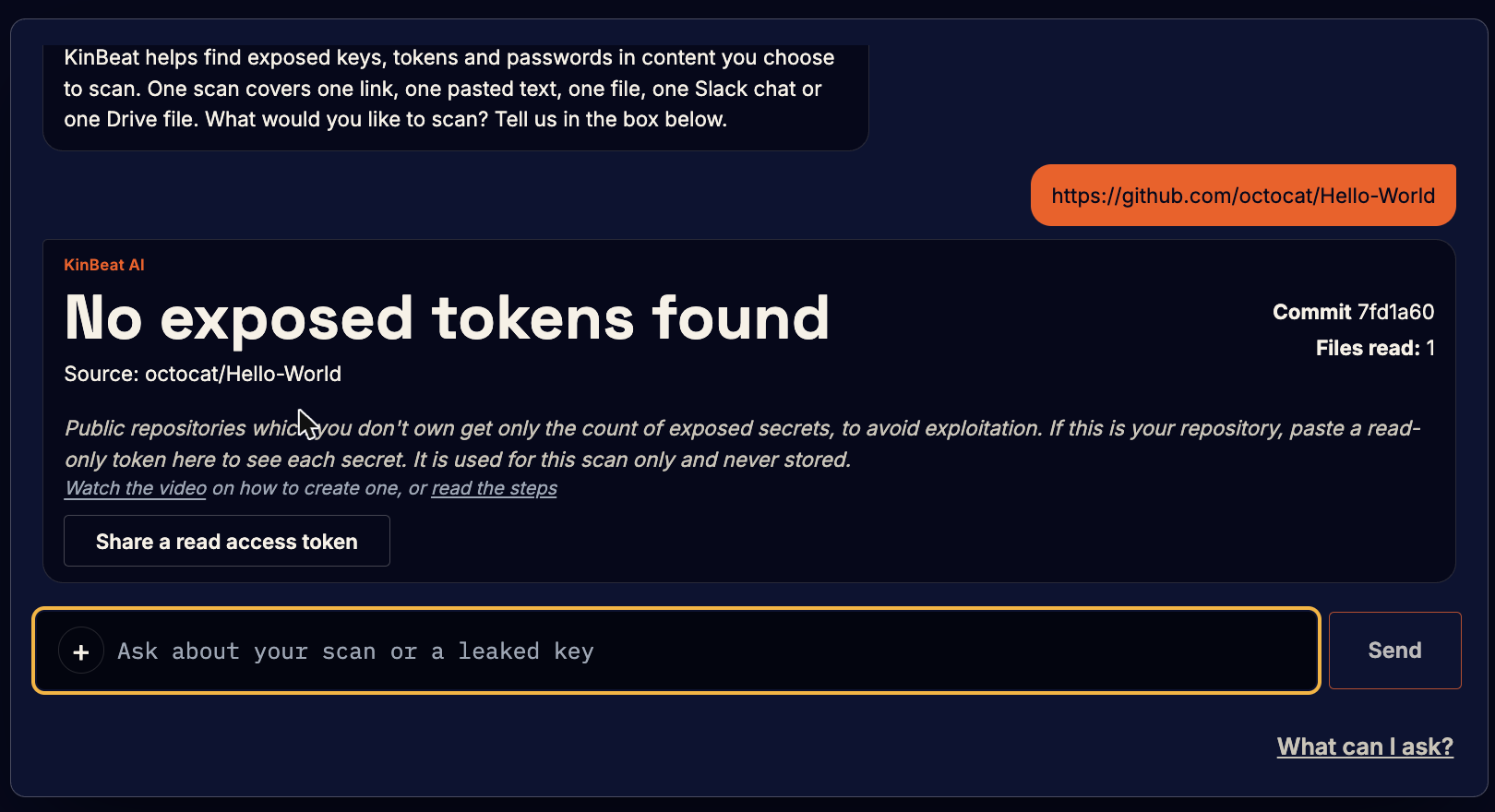
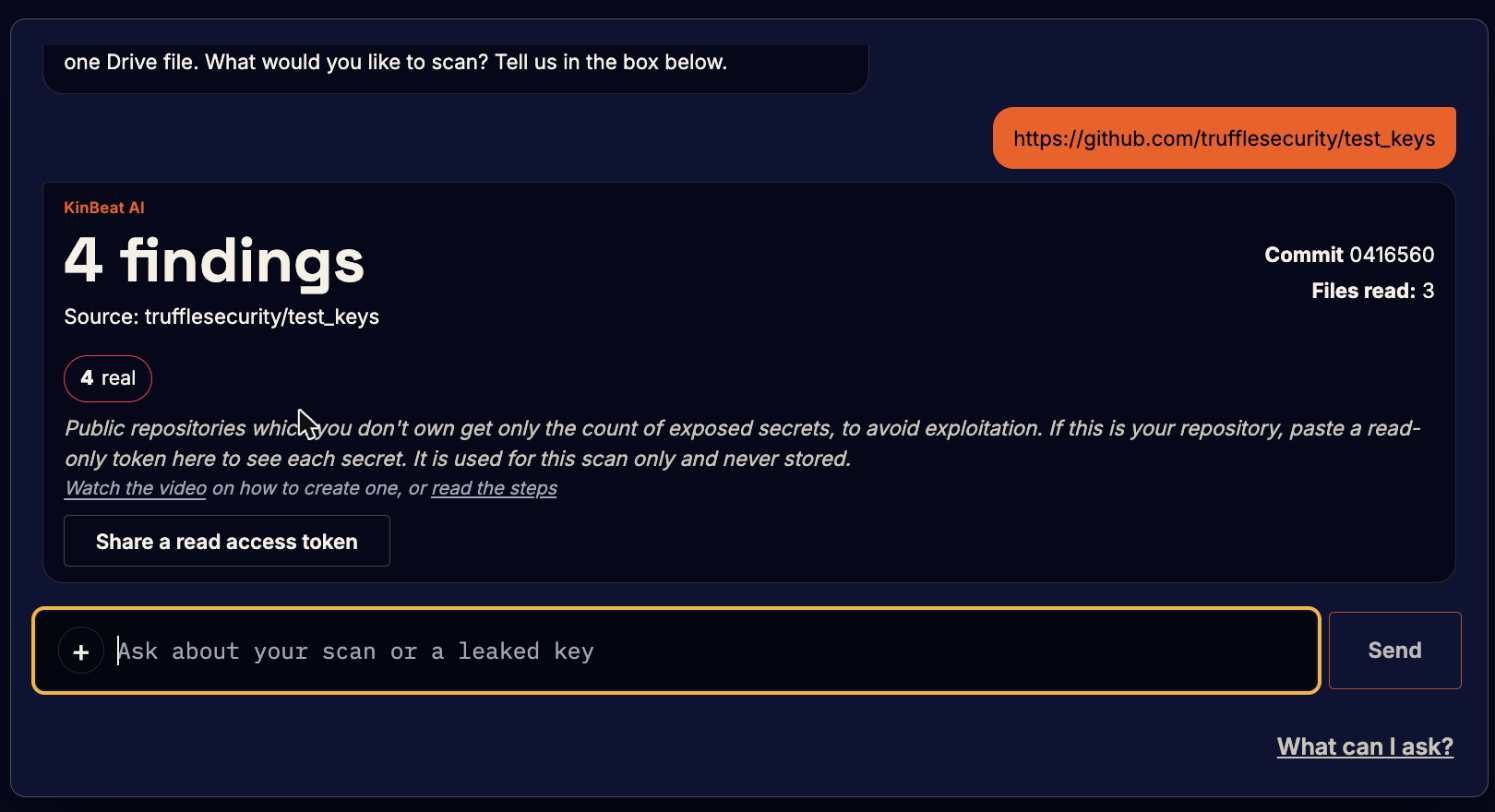
README: bullets, judges section, screenshots with findings; a lone link always scans as a site or repository

diff --git a/api/src/scan/ask.service.ts b/api/src/scan/ask.service.ts
@@ -113,8 +113,10 @@ export function route(message: string): AskReply | null {
   // A bare domain on its own, "kinbeat.com", is a site to scan. Inside a sentence it is left to the AI.
   if (/^(?:[a-z0-9-]+\.)+[a-z]{2,}$/i.test(message.trim())) return { kind: 'scan', mode: 'site', value: `https://${message.trim()}` };
   const links = message.match(LINK) ?? [];
+  // A message that is one link and nothing else is a site or repository to scan, never pasted text, whatever its path looks like.
+  const justLink = links.length === 1 && links[0] === message.trim();
   // A scrambled value (base64 or hex blob) is a chat to scan even when it is short: the rules decode it, the AI cannot.
-  if (message.length > PASTE_AT || detect(message).length > 0 || SCRAMBLED.test(message)) return { kind: 'scan', mode: 'paste', value: message };
+  if (!justLink && (message.length > PASTE_AT || detect(message).length > 0 || SCRAMBLED.test(message))) return { kind: 'scan', mode: 'paste', value: message };
   if (links.length > 1) return { kind: 'answer', text: ASK_LINES.twoLinks };
   if (links.length === 1) {
     const link = /^https?:\/\//i.test(links[0]) ? links[0] : `https://${links[0]}`;

diff --git a/README.md b/README.md
@@ -1,6 +1,6 @@
 # KinBeat
 
-**Find your exposed tokens before hackers do.** KinBeat reads the places where secrets leak - chats, files, websites, GitHub, Google Drive and Slack - and tells you which keys are real and which are only possible.
+**Find your exposed tokens before hackers do.** KinBeat reads the places where secrets leak - **chats, files, websites, GitHub, Google Drive and Slack** - and tells you which keys are *real* and which are only *possible*.
 
 Demo video: _[link coming]_
 
@@ -8,53 +8,59 @@ The project can be cloned and run locally (see below). For the complete experien
 
 Built during the Meta Global AI Developer Hackathon, Indie track, by one developer, between 26 October and 4 November 2026.
 
+## For the judges
+
+- **Problem statement:** Build for Your World - leaked keys in chats, files and repositories, a problem every developer meets.
+- **Meta AI tooling:** Meta's **Muse Spark Open** makes every decision at runtime - it judges each finding, reads pictures and scanned pages, and answers the chat.
+- **Bonus awards submitted for:** **Best Build on Open Weight Models** and **Best Agentic Use-Case**.
+
 ## What KinBeat can do
 
-**Scan a chat you paste.** Teams leak keys in messages all the time. Paste the text and KinBeat finds the key, even when it is scrambled (base64, hex, URL codes), spelled out letter by letter, written in NATO code words or number words, or split over two messages.
+- **Scan a chat you paste.** Teams leak keys in messages all the time. Paste the text and KinBeat finds the key, even when it is **scrambled** (base64, hex, URL codes), **spelled out** letter by letter, written in **NATO code words** or number words, or **split over two messages**.
 
-![A pasted email with a scrambled token, found and explained](docs/readme/paste-chat.png)
+  ![A pasted email with a scrambled token, found and explained](docs/readme/paste-chat.png)
 
-**Scan a file.** PDFs, Word files, zips, code and config files. Screenshots and scanned pages are read as text, so a key inside a picture is found too.
+- **Scan a file.** PDFs, Word files, zips, code and config files. **Screenshots and scanned pages** are read as text, so a key inside a picture is found too.
 
-![A config file with a password and a token found](docs/readme/upload-file.png)
+  ![A config file with a password and a token found](docs/readme/upload-file.png)
 
-**Scan a website.** Paste any page link.
+- **Scan a website.** Paste any page link.
 
-![A website scan](docs/readme/website.png)
+  ![A web page with exposed secrets found](docs/readme/website.png)
 
-**Scan a GitHub repository.** Paste the link. Public repositories you do not own get only the count of exposed secrets, so nobody can use KinBeat to raid them. With a read-only token for your own repository you see every finding, file and line.
+- **Scan a GitHub repository.** Paste the link. Public repositories you do not own get **only the count** of exposed secrets, so nobody can use KinBeat to raid them. With a read-only token for your own repository you see every finding, file and line.
 
-![A public repository result with the token option](docs/readme/github-repo.png)
+  ![A public repository result with the counts and the token option](docs/readme/github-repo.png)
 
-**Scan your GitHub pull request history.** Up to 100 merged pull requests, with the pull request, file and line of each secret.
+- **Scan your GitHub pull request history.** Up to **100 merged pull requests**, with the pull request, file and line of each secret.
 
-![The pull request history scan asking for the link and the token](docs/readme/pr-history.png)
+  ![The pull request history scan asking for the link and the token](docs/readme/pr-history.png)
 
-**Scan a Google Drive file.** Press + in the chat box, choose Google Drive, sign in and pick one file.
+- **Scan a Google Drive file.** Press + in the chat box, choose Google Drive, sign in and pick one file.
 
-![Connect Google from the chat](docs/readme/google-drive.png)
+  ![Connect Google from the chat](docs/readme/google-drive.png)
 
-**Scan your Slack chats.** Press + in the chat box, choose Slack, connect your workspace and pick a channel from the list. Up to 10,000 messages per scan.
+- **Scan your Slack chats.** Press + in the chat box, choose Slack, connect your workspace and pick a channel from the list. Up to **10,000 messages** per scan.
 
-![Connect Slack from the chat](docs/readme/slack.png)
+  ![Connect Slack from the chat](docs/readme/slack.png)
 
-The + menu in the chat box holds all three: Upload a file, Google Drive, Slack.
+- **The + menu** in the chat box holds all three: Upload a file, Google Drive, Slack.
 
-![The + menu: Upload a file, Google Drive, Slack](docs/readme/plus-menu.png)
+  ![The + menu: Upload a file, Google Drive, Slack](docs/readme/plus-menu.png)
 
-**Ask KinBeat AI.** The AI has been through evals to tell a real key from an example key, so you can fix the real ones first. You can also ask it about a leaked AWS key, how to change one, what a JWT is, and more.
+- **Ask KinBeat AI.** The AI has been through **evals** to tell a real key from an example key, so you can fix the **real ones first**. You can also ask it about a leaked AWS key, how to change one, what a JWT is, and more.
 
-![KinBeat AI answering what to fix first](docs/readme/ask-ai.png)
+  ![KinBeat AI answering what to fix first](docs/readme/ask-ai.png)
 
 ## Under the hood, in one breath
 
-A multimodal AI that reads text, pictures and scanned pages; a judge that marks each finding real, possible or example with a one-sentence reason; a validation layer that checks every AI answer before it is shown; retrieval of this scan's findings into every answer; and an eval suite that scores the whole thing. Latest live run: 98.9%.
+A **multimodal AI** that reads text, pictures and scanned pages; a **judge** that marks each finding *real*, *possible* or *example* with a one-sentence reason; a **validation layer** that checks every AI answer before it is shown; **retrieval** of this scan's findings into every answer; and an **eval suite** that scores the whole thing. Latest live run: **98.9%**.
 
 ## Try it
 
 The full experience is at https://kinbeat.com: the real Muse judge, Google Drive, Slack and the live scan counts.
 
-During the hackathon the site keeps no accounts and no scan results. There is no sign-in on purpose, so judges can try every scan without creating anything.
+During the hackathon the site keeps **no accounts and no scan results**. There is no sign-in on purpose, so judges can try every scan without creating anything.
 
 ## Run it locally
 
@@ -71,8 +77,8 @@ npm install && cp .env.example .env && npm run dev
 
 ## Meta model
 
-- Meta's Muse Spark Open is the only model that makes decisions at runtime, served on a partner endpoint (Modal). `MODEL_API_BASE_URL` and `MODEL_API_MODEL` in `.env` choose the endpoint and the model.
-- Because every decision at runtime is made by a Meta open-weight model, the project also qualifies for Best Build on Meta Open Weight Models.
+- **Meta's Muse Spark Open** is the only model that makes decisions at runtime, served on a partner endpoint (Modal). `MODEL_API_BASE_URL` and `MODEL_API_MODEL` in `.env` choose the endpoint and the model.
+- Because every decision at runtime is made by a Meta open-weight model, served through a partner provider, the project is submitted for **Best Build on Open Weight Models**.
 
 ## Open-source software used
 
